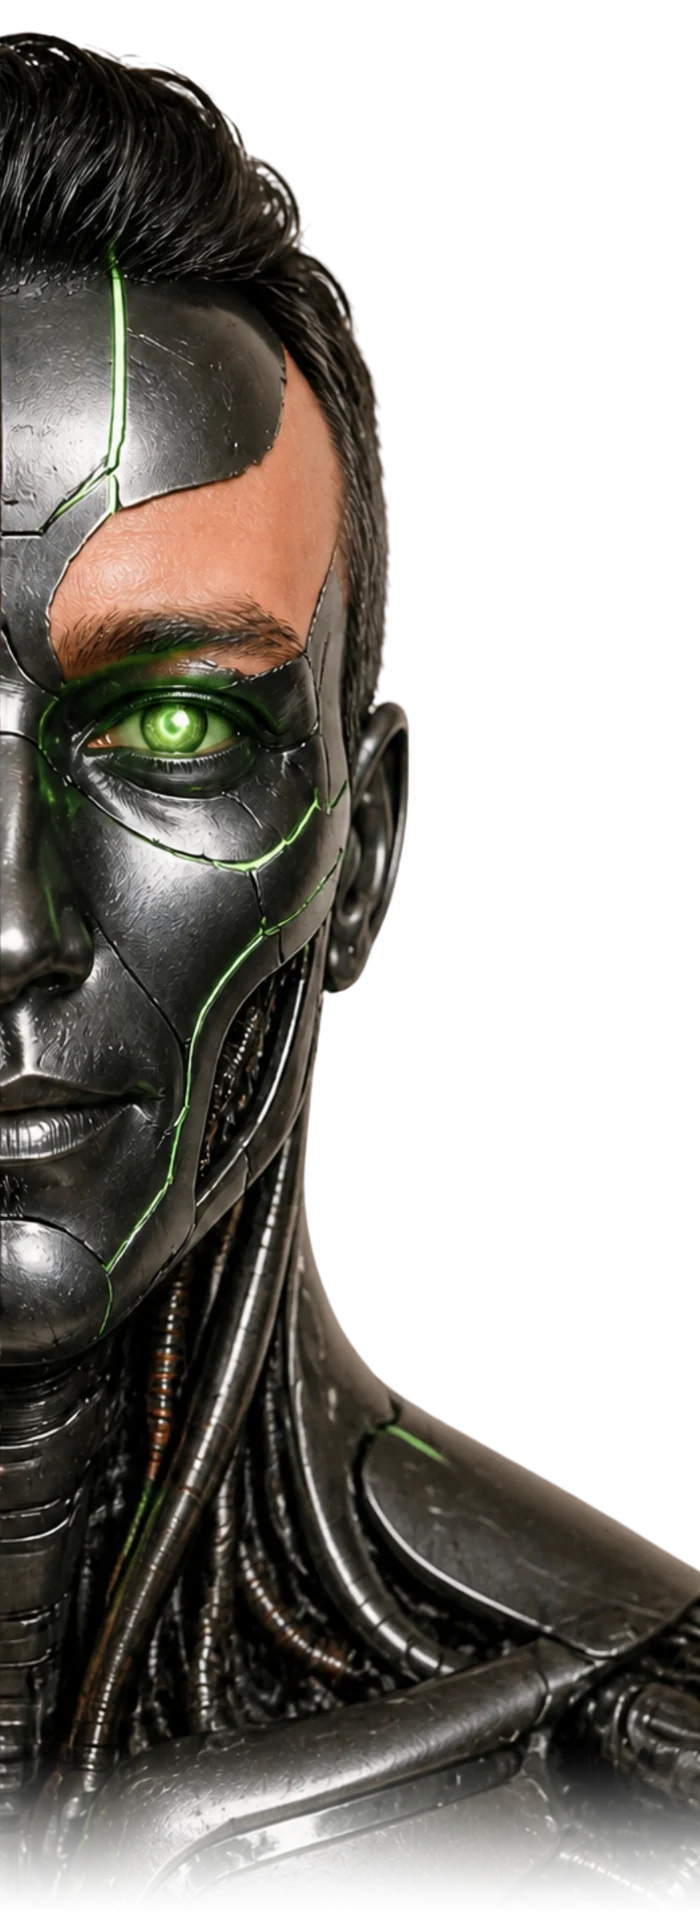
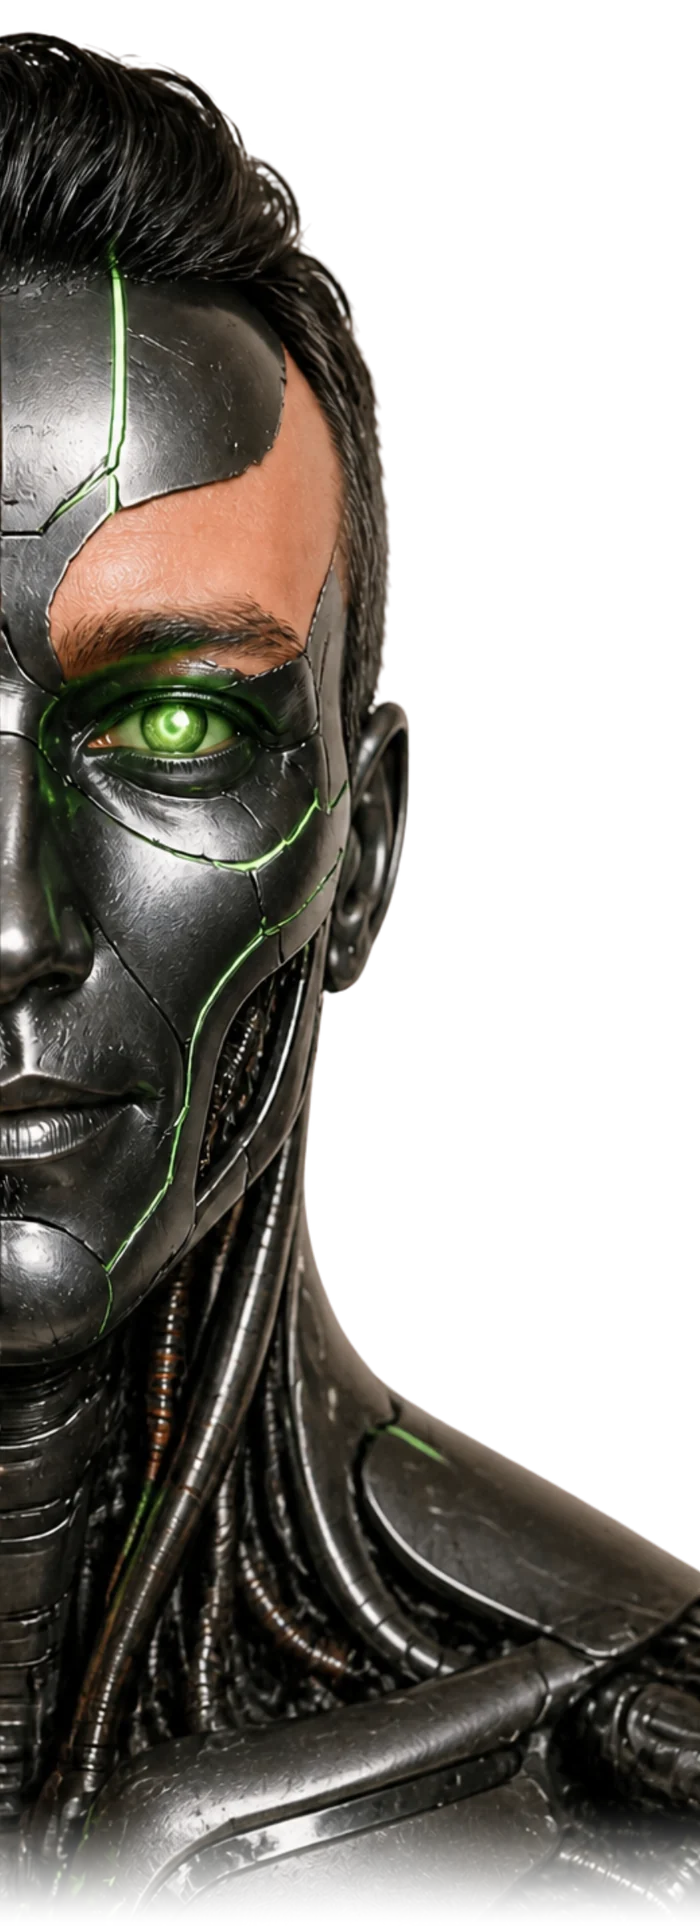
fix(revolution): agent proportions, wider face on desktop, longer torso
Desktop machine head is scaled 15% above eye-to-chin parity to match the width of his face, eyes level; the torso fades later; phones keep exact eye-to-chin parity.

Changed region(s): [[0.0, 0.902, 1.0, 0.9953]]

diff --git a/public/revolution/404.html b/public/revolution/404.html
@@ -2664,7 +2664,8 @@ body:has(#library) .lb__bar{display:none}
 .s.sh{--Hc:calc(var(--Hm, var(--H)) * .7231)}
 .s.sh .sh__ag{height:var(--Hc);width:calc(var(--Hc) * .3629);top:calc(var(--top) - var(--H) * .0092);bottom:auto;-webkit-mask-image:linear-gradient(90deg,#000 0,#000 72%,transparent 100%);mask-image:linear-gradient(90deg,#000 0,#000 72%,transparent 100%)}
 @media (min-width:1000px){
-  .s.sh .sh__ag{top:auto;bottom:calc(var(--Hm) * .2861);-webkit-mask-image:linear-gradient(90deg,#000 0,#000 66%,transparent 100%);mask-image:linear-gradient(90deg,#000 0,#000 66%,transparent 100%)}
+  .s.sh{--Hc:calc(var(--Hm) * .8316)}
+  .s.sh .sh__ag{top:auto;bottom:calc(var(--Hm) * .2183);-webkit-mask-image:linear-gradient(90deg,#000 0,#000 66%,transparent 100%);mask-image:linear-gradient(90deg,#000 0,#000 66%,transparent 100%)}
 }
 /* espresso band on a phone: the cup centred under the form, whole */
 @media (max-width:899px){.nlb__in{padding-bottom:250px}.nlb__l{padding-bottom:28px}.nlb__ph{left:50%;right:auto;transform:translateX(-74%);height:330px;bottom:0;top:auto;-webkit-mask-image:linear-gradient(90deg,transparent 0,#000 14%,#000 86%,transparent 100%),linear-gradient(0deg,#000 60%,transparent 100%);-webkit-mask-composite:source-in;mask-image:linear-gradient(90deg,transparent 0,#000 14%,#000 86%,transparent 100%),linear-gradient(0deg,#000 60%,transparent 100%);mask-composite:intersect}}

diff --git a/public/revolution/about.html b/public/revolution/about.html
@@ -2663,7 +2663,8 @@ body:has(#library) .lb__bar{display:none}
 .s.sh{--Hc:calc(var(--Hm, var(--H)) * .7231)}
 .s.sh .sh__ag{height:var(--Hc);width:calc(var(--Hc) * .3629);top:calc(var(--top) - var(--H) * .0092);bottom:auto;-webkit-mask-image:linear-gradient(90deg,#000 0,#000 72%,transparent 100%);mask-image:linear-gradient(90deg,#000 0,#000 72%,transparent 100%)}
 @media (min-width:1000px){
-  .s.sh .sh__ag{top:auto;bottom:calc(var(--Hm) * .2861);-webkit-mask-image:linear-gradient(90deg,#000 0,#000 66%,transparent 100%);mask-image:linear-gradient(90deg,#000 0,#000 66%,transparent 100%)}
+  .s.sh{--Hc:calc(var(--Hm) * .8316)}
+  .s.sh .sh__ag{top:auto;bottom:calc(var(--Hm) * .2183);-webkit-mask-image:linear-gradient(90deg,#000 0,#000 66%,transparent 100%);mask-image:linear-gradient(90deg,#000 0,#000 66%,transparent 100%)}
 }
 /* espresso band on a phone: the cup centred under the form, whole */
 @media (max-width:899px){.nlb__in{padding-bottom:250px}.nlb__l{padding-bottom:28px}.nlb__ph{left:50%;right:auto;transform:translateX(-74%);height:330px;bottom:0;top:auto;-webkit-mask-image:linear-gradient(90deg,transparent 0,#000 14%,#000 86%,transparent 100%),linear-gradient(0deg,#000 60%,transparent 100%);-webkit-mask-composite:source-in;mask-image:linear-gradient(90deg,transparent 0,#000 14%,#000 86%,transparent 100%),linear-gradient(0deg,#000 60%,transparent 100%);mask-composite:intersect}}

diff --git a/public/revolution/article.html b/public/revolution/article.html
@@ -2662,7 +2662,8 @@ body:has(#library) .lb__bar{display:none}
 .s.sh{--Hc:calc(var(--Hm, var(--H)) * .7231)}
 .s.sh .sh__ag{height:var(--Hc);width:calc(var(--Hc) * .3629);top:calc(var(--top) - var(--H) * .0092);bottom:auto;-webkit-mask-image:linear-gradient(90deg,#000 0,#000 72%,transparent 100%);mask-image:linear-gradient(90deg,#000 0,#000 72%,transparent 100%)}
 @media (min-width:1000px){
-  .s.sh .sh__ag{top:auto;bottom:calc(var(--Hm) * .2861);-webkit-mask-image:linear-gradient(90deg,#000 0,#000 66%,transparent 100%);mask-image:linear-gradient(90deg,#000 0,#000 66%,transparent 100%)}
+  .s.sh{--Hc:calc(var(--Hm) * .8316)}
+  .s.sh .sh__ag{top:auto;bottom:calc(var(--Hm) * .2183);-webkit-mask-image:linear-gradient(90deg,#000 0,#000 66%,transparent 100%);mask-image:linear-gradient(90deg,#000 0,#000 66%,transparent 100%)}
 }
 /* espresso band on a phone: the cup centred under the form, whole */
 @media (max-width:899px){.nlb__in{padding-bottom:250px}.nlb__l{padding-bottom:28px}.nlb__ph{left:50%;right:auto;transform:translateX(-74%);height:330px;bottom:0;top:auto;-webkit-mask-image:linear-gradient(90deg,transparent 0,#000 14%,#000 86%,transparent 100%),linear-gradient(0deg,#000 60%,transparent 100%);-webkit-mask-composite:source-in;mask-image:linear-gradient(90deg,transparent 0,#000 14%,#000 86%,transparent 100%),linear-gradient(0deg,#000 60%,transparent 100%);mask-composite:intersect}}

diff --git a/public/revolution/cookies.html b/public/revolution/cookies.html
@@ -2664,7 +2664,8 @@ body:has(#library) .lb__bar{display:none}
 .s.sh{--Hc:calc(var(--Hm, var(--H)) * .7231)}
 .s.sh .sh__ag{height:var(--Hc);width:calc(var(--Hc) * .3629);top:calc(var(--top) - var(--H) * .0092);bottom:auto;-webkit-mask-image:linear-gradient(90deg,#000 0,#000 72%,transparent 100%);mask-image:linear-gradient(90deg,#000 0,#000 72%,transparent 100%)}
 @media (min-width:1000px){
-  .s.sh .sh__ag{top:auto;bottom:calc(var(--Hm) * .2861);-webkit-mask-image:linear-gradient(90deg,#000 0,#000 66%,transparent 100%);mask-image:linear-gradient(90deg,#000 0,#000 66%,transparent 100%)}
+  .s.sh{--Hc:calc(var(--Hm) * .8316)}
+  .s.sh .sh__ag{top:auto;bottom:calc(var(--Hm) * .2183);-webkit-mask-image:linear-gradient(90deg,#000 0,#000 66%,transparent 100%);mask-image:linear-gradient(90deg,#000 0,#000 66%,transparent 100%)}
 }
 /* espresso band on a phone: the cup centred under the form, whole */
 @media (max-width:899px){.nlb__in{padding-bottom:250px}.nlb__l{padding-bottom:28px}.nlb__ph{left:50%;right:auto;transform:translateX(-74%);height:330px;bottom:0;top:auto;-webkit-mask-image:linear-gradient(90deg,transparent 0,#000 14%,#000 86%,transparent 100%),linear-gradient(0deg,#000 60%,transparent 100%);-webkit-mask-composite:source-in;mask-image:linear-gradient(90deg,transparent 0,#000 14%,#000 86%,transparent 100%),linear-gradient(0deg,#000 60%,transparent 100%);mask-composite:intersect}}

diff --git a/public/revolution/growth.html b/public/revolution/growth.html
@@ -2662,7 +2662,8 @@ body:has(#library) .lb__bar{display:none}
 .s.sh{--Hc:calc(var(--Hm, var(--H)) * .7231)}
 .s.sh .sh__ag{height:var(--Hc);width:calc(var(--Hc) * .3629);top:calc(var(--top) - var(--H) * .0092);bottom:auto;-webkit-mask-image:linear-gradient(90deg,#000 0,#000 72%,transparent 100%);mask-image:linear-gradient(90deg,#000 0,#000 72%,transparent 100%)}
 @media (min-width:1000px){
-  .s.sh .sh__ag{top:auto;bottom:calc(var(--Hm) * .2861);-webkit-mask-image:linear-gradient(90deg,#000 0,#000 66%,transparent 100%);mask-image:linear-gradient(90deg,#000 0,#000 66%,transparent 100%)}
+  .s.sh{--Hc:calc(var(--Hm) * .8316)}
+  .s.sh .sh__ag{top:auto;bottom:calc(var(--Hm) * .2183);-webkit-mask-image:linear-gradient(90deg,#000 0,#000 66%,transparent 100%);mask-image:linear-gradient(90deg,#000 0,#000 66%,transparent 100%)}
 }
 /* espresso band on a phone: the cup centred under the form, whole */
 @media (max-width:899px){.nlb__in{padding-bottom:250px}.nlb__l{padding-bottom:28px}.nlb__ph{left:50%;right:auto;transform:translateX(-74%);height:330px;bottom:0;top:auto;-webkit-mask-image:linear-gradient(90deg,transparent 0,#000 14%,#000 86%,transparent 100%),linear-gradient(0deg,#000 60%,transparent 100%);-webkit-mask-composite:source-in;mask-image:linear-gradient(90deg,transparent 0,#000 14%,#000 86%,transparent 100%),linear-gradient(0deg,#000 60%,transparent 100%);mask-composite:intersect}}

diff --git a/public/revolution/gtm.html b/public/revolution/gtm.html
@@ -2662,7 +2662,8 @@ body:has(#library) .lb__bar{display:none}
 .s.sh{--Hc:calc(var(--Hm, var(--H)) * .7231)}
 .s.sh .sh__ag{height:var(--Hc);width:calc(var(--Hc) * .3629);top:calc(var(--top) - var(--H) * .0092);bottom:auto;-webkit-mask-image:linear-gradient(90deg,#000 0,#000 72%,transparent 100%);mask-image:linear-gradient(90deg,#000 0,#000 72%,transparent 100%)}
 @media (min-width:1000px){
-  .s.sh .sh__ag{top:auto;bottom:calc(var(--Hm) * .2861);-webkit-mask-image:linear-gradient(90deg,#000 0,#000 66%,transparent 100%);mask-image:linear-gradient(90deg,#000 0,#000 66%,transparent 100%)}
+  .s.sh{--Hc:calc(var(--Hm) * .8316)}
+  .s.sh .sh__ag{top:auto;bottom:calc(var(--Hm) * .2183);-webkit-mask-image:linear-gradient(90deg,#000 0,#000 66%,transparent 100%);mask-image:linear-gradient(90deg,#000 0,#000 66%,transparent 100%)}
 }
 /* espresso band on a phone: the cup centred under the form, whole */
 @media (max-width:899px){.nlb__in{padding-bottom:250px}.nlb__l{padding-bottom:28px}.nlb__ph{left:50%;right:auto;transform:translateX(-74%);height:330px;bottom:0;top:auto;-webkit-mask-image:linear-gradient(90deg,transparent 0,#000 14%,#000 86%,transparent 100%),linear-gradient(0deg,#000 60%,transparent 100%);-webkit-mask-composite:source-in;mask-image:linear-gradient(90deg,transparent 0,#000 14%,#000 86%,transparent 100%),linear-gradient(0deg,#000 60%,transparent 100%);mask-composite:intersect}}

diff --git a/public/revolution/index.html b/public/revolution/index.html
@@ -2662,7 +2662,8 @@ body:has(#library) .lb__bar{display:none}
 .s.sh{--Hc:calc(var(--Hm, var(--H)) * .7231)}
 .s.sh .sh__ag{height:var(--Hc);width:calc(var(--Hc) * .3629);top:calc(var(--top) - var(--H) * .0092);bottom:auto;-webkit-mask-image:linear-gradient(90deg,#000 0,#000 72%,transparent 100%);mask-image:linear-gradient(90deg,#000 0,#000 72%,transparent 100%)}
 @media (min-width:1000px){
-  .s.sh .sh__ag{top:auto;bottom:calc(var(--Hm) * .2861);-webkit-mask-image:linear-gradient(90deg,#000 0,#000 66%,transparent 100%);mask-image:linear-gradient(90deg,#000 0,#000 66%,transparent 100%)}
+  .s.sh{--Hc:calc(var(--Hm) * .8316)}
+  .s.sh .sh__ag{top:auto;bottom:calc(var(--Hm) * .2183);-webkit-mask-image:linear-gradient(90deg,#000 0,#000 66%,transparent 100%);mask-image:linear-gradient(90deg,#000 0,#000 66%,transparent 100%)}
 }
 /* espresso band on a phone: the cup centred under the form, whole */
 @media (max-width:899px){.nlb__in{padding-bottom:250px}.nlb__l{padding-bottom:28px}.nlb__ph{left:50%;right:auto;transform:translateX(-74%);height:330px;bottom:0;top:auto;-webkit-mask-image:linear-gradient(90deg,transparent 0,#000 14%,#000 86%,transparent 100%),linear-gradient(0deg,#000 60%,transparent 100%);-webkit-mask-composite:source-in;mask-image:linear-gradient(90deg,transparent 0,#000 14%,#000 86%,transparent 100%),linear-gradient(0deg,#000 60%,transparent 100%);mask-composite:intersect}}

diff --git a/public/revolution/insights.html b/public/revolution/insights.html
@@ -2662,7 +2662,8 @@ body:has(#library) .lb__bar{display:none}
 .s.sh{--Hc:calc(var(--Hm, var(--H)) * .7231)}
 .s.sh .sh__ag{height:var(--Hc);width:calc(var(--Hc) * .3629);top:calc(var(--top) - var(--H) * .0092);bottom:auto;-webkit-mask-image:linear-gradient(90deg,#000 0,#000 72%,transparent 100%);mask-image:linear-gradient(90deg,#000 0,#000 72%,transparent 100%)}
 @media (min-width:1000px){
-  .s.sh .sh__ag{top:auto;bottom:calc(var(--Hm) * .2861);-webkit-mask-image:linear-gradient(90deg,#000 0,#000 66%,transparent 100%);mask-image:linear-gradient(90deg,#000 0,#000 66%,transparent 100%)}
+  .s.sh{--Hc:calc(var(--Hm) * .8316)}
+  .s.sh .sh__ag{top:auto;bottom:calc(var(--Hm) * .2183);-webkit-mask-image:linear-gradient(90deg,#000 0,#000 66%,transparent 100%);mask-image:linear-gradient(90deg,#000 0,#000 66%,transparent 100%)}
 }
 /* espresso band on a phone: the cup centred under the form, whole */
 @media (max-width:899px){.nlb__in{padding-bottom:250px}.nlb__l{padding-bottom:28px}.nlb__ph{left:50%;right:auto;transform:translateX(-74%);height:330px;bottom:0;top:auto;-webkit-mask-image:linear-gradient(90deg,transparent 0,#000 14%,#000 86%,transparent 100%),linear-gradient(0deg,#000 60%,transparent 100%);-webkit-mask-composite:source-in;mask-image:linear-gradient(90deg,transparent 0,#000 14%,#000 86%,transparent 100%),linear-gradient(0deg,#000 60%,transparent 100%);mask-composite:intersect}}

diff --git a/public/revolution/maintenance.html b/public/revolution/maintenance.html
@@ -2664,7 +2664,8 @@ body:has(#library) .lb__bar{display:none}
 .s.sh{--Hc:calc(var(--Hm, var(--H)) * .7231)}
 .s.sh .sh__ag{height:var(--Hc);width:calc(var(--Hc) * .3629);top:calc(var(--top) - var(--H) * .0092);bottom:auto;-webkit-mask-image:linear-gradient(90deg,#000 0,#000 72%,transparent 100%);mask-image:linear-gradient(90deg,#000 0,#000 72%,transparent 100%)}
 @media (min-width:1000px){
-  .s.sh .sh__ag{top:auto;bottom:calc(var(--Hm) * .2861);-webkit-mask-image:linear-gradient(90deg,#000 0,#000 66%,transparent 100%);mask-image:linear-gradient(90deg,#000 0,#000 66%,transparent 100%)}
+  .s.sh{--Hc:calc(var(--Hm) * .8316)}
+  .s.sh .sh__ag{top:auto;bottom:calc(var(--Hm) * .2183);-webkit-mask-image:linear-gradient(90deg,#000 0,#000 66%,transparent 100%);mask-image:linear-gradient(90deg,#000 0,#000 66%,transparent 100%)}
 }
 /* espresso band on a phone: the cup centred under the form, whole */
 @media (max-width:899px){.nlb__in{padding-bottom:250px}.nlb__l{padding-bottom:28px}.nlb__ph{left:50%;right:auto;transform:translateX(-74%);height:330px;bottom:0;top:auto;-webkit-mask-image:linear-gradient(90deg,transparent 0,#000 14%,#000 86%,transparent 100%),linear-gradient(0deg,#000 60%,transparent 100%);-webkit-mask-composite:source-in;mask-image:linear-gradient(90deg,transparent 0,#000 14%,#000 86%,transparent 100%),linear-gradient(0deg,#000 60%,transparent 100%);mask-composite:intersect}}

diff --git a/public/revolution/marketing.html b/public/revolution/marketing.html
@@ -2662,7 +2662,8 @@ body:has(#library) .lb__bar{display:none}
 .s.sh{--Hc:calc(var(--Hm, var(--H)) * .7231)}
 .s.sh .sh__ag{height:var(--Hc);width:calc(var(--Hc) * .3629);top:calc(var(--top) - var(--H) * .0092);bottom:auto;-webkit-mask-image:linear-gradient(90deg,#000 0,#000 72%,transparent 100%);mask-image:linear-gradient(90deg,#000 0,#000 72%,transparent 100%)}
 @media (min-width:1000px){
-  .s.sh .sh__ag{top:auto;bottom:calc(var(--Hm) * .2861);-webkit-mask-image:linear-gradient(90deg,#000 0,#000 66%,transparent 100%);mask-image:linear-gradient(90deg,#000 0,#000 66%,transparent 100%)}
+  .s.sh{--Hc:calc(var(--Hm) * .8316)}
+  .s.sh .sh__ag{top:auto;bottom:calc(var(--Hm) * .2183);-webkit-mask-image:linear-gradient(90deg,#000 0,#000 66%,transparent 100%);mask-image:linear-gradient(90deg,#000 0,#000 66%,transparent 100%)}
 }
 /* espresso band on a phone: the cup centred under the form, whole */
 @media (max-width:899px){.nlb__in{padding-bottom:250px}.nlb__l{padding-bottom:28px}.nlb__ph{left:50%;right:auto;transform:translateX(-74%);height:330px;bottom:0;top:auto;-webkit-mask-image:linear-gradient(90deg,transparent 0,#000 14%,#000 86%,transparent 100%),linear-gradient(0deg,#000 60%,transparent 100%);-webkit-mask-composite:source-in;mask-image:linear-gradient(90deg,transparent 0,#000 14%,#000 86%,transparent 100%),linear-gradient(0deg,#000 60%,transparent 100%);mask-composite:intersect}}

diff --git a/public/revolution/newsletter.html b/public/revolution/newsletter.html
@@ -2663,7 +2663,8 @@ body:has(#library) .lb__bar{display:none}
 .s.sh{--Hc:calc(var(--Hm, var(--H)) * .7231)}
 .s.sh .sh__ag{height:var(--Hc);width:calc(var(--Hc) * .3629);top:calc(var(--top) - var(--H) * .0092);bottom:auto;-webkit-mask-image:linear-gradient(90deg,#000 0,#000 72%,transparent 100%);mask-image:linear-gradient(90deg,#000 0,#000 72%,transparent 100%)}
 @media (min-width:1000px){
-  .s.sh .sh__ag{top:auto;bottom:calc(var(--Hm) * .2861);-webkit-mask-image:linear-gradient(90deg,#000 0,#000 66%,transparent 100%);mask-image:linear-gradient(90deg,#000 0,#000 66%,transparent 100%)}
+  .s.sh{--Hc:calc(var(--Hm) * .8316)}
+  .s.sh .sh__ag{top:auto;bottom:calc(var(--Hm) * .2183);-webkit-mask-image:linear-gradient(90deg,#000 0,#000 66%,transparent 100%);mask-image:linear-gradient(90deg,#000 0,#000 66%,transparent 100%)}
 }
 /* espresso band on a phone: the cup centred under the form, whole */
 @media (max-width:899px){.nlb__in{padding-bottom:250px}.nlb__l{padding-bottom:28px}.nlb__ph{left:50%;right:auto;transform:translateX(-74%);height:330px;bottom:0;top:auto;-webkit-mask-image:linear-gradient(90deg,transparent 0,#000 14%,#000 86%,transparent 100%),linear-gradient(0deg,#000 60%,transparent 100%);-webkit-mask-composite:source-in;mask-image:linear-gradient(90deg,transparent 0,#000 14%,#000 86%,transparent 100%),linear-gradient(0deg,#000 60%,transparent 100%);mask-composite:intersect}}

diff --git a/public/revolution/privacy.html b/public/revolution/privacy.html
@@ -2664,7 +2664,8 @@ body:has(#library) .lb__bar{display:none}
 .s.sh{--Hc:calc(var(--Hm, var(--H)) * .7231)}
 .s.sh .sh__ag{height:var(--Hc);width:calc(var(--Hc) * .3629);top:calc(var(--top) - var(--H) * .0092);bottom:auto;-webkit-mask-image:linear-gradient(90deg,#000 0,#000 72%,transparent 100%);mask-image:linear-gradient(90deg,#000 0,#000 72%,transparent 100%)}
 @media (min-width:1000px){
-  .s.sh .sh__ag{top:auto;bottom:calc(var(--Hm) * .2861);-webkit-mask-image:linear-gradient(90deg,#000 0,#000 66%,transparent 100%);mask-image:linear-gradient(90deg,#000 0,#000 66%,transparent 100%)}
+  .s.sh{--Hc:calc(var(--Hm) * .8316)}
+  .s.sh .sh__ag{top:auto;bottom:calc(var(--Hm) * .2183);-webkit-mask-image:linear-gradient(90deg,#000 0,#000 66%,transparent 100%);mask-image:linear-gradient(90deg,#000 0,#000 66%,transparent 100%)}
 }
 /* espresso band on a phone: the cup centred under the form, whole */
 @media (max-width:899px){.nlb__in{padding-bottom:250px}.nlb__l{padding-bottom:28px}.nlb__ph{left:50%;right:auto;transform:translateX(-74%);height:330px;bottom:0;top:auto;-webkit-mask-image:linear-gradient(90deg,transparent 0,#000 14%,#000 86%,transparent 100%),linear-gradient(0deg,#000 60%,transparent 100%);-webkit-mask-composite:source-in;mask-image:linear-gradient(90deg,transparent 0,#000 14%,#000 86%,transparent 100%),linear-gradient(0deg,#000 60%,transparent 100%);mask-composite:intersect}}
